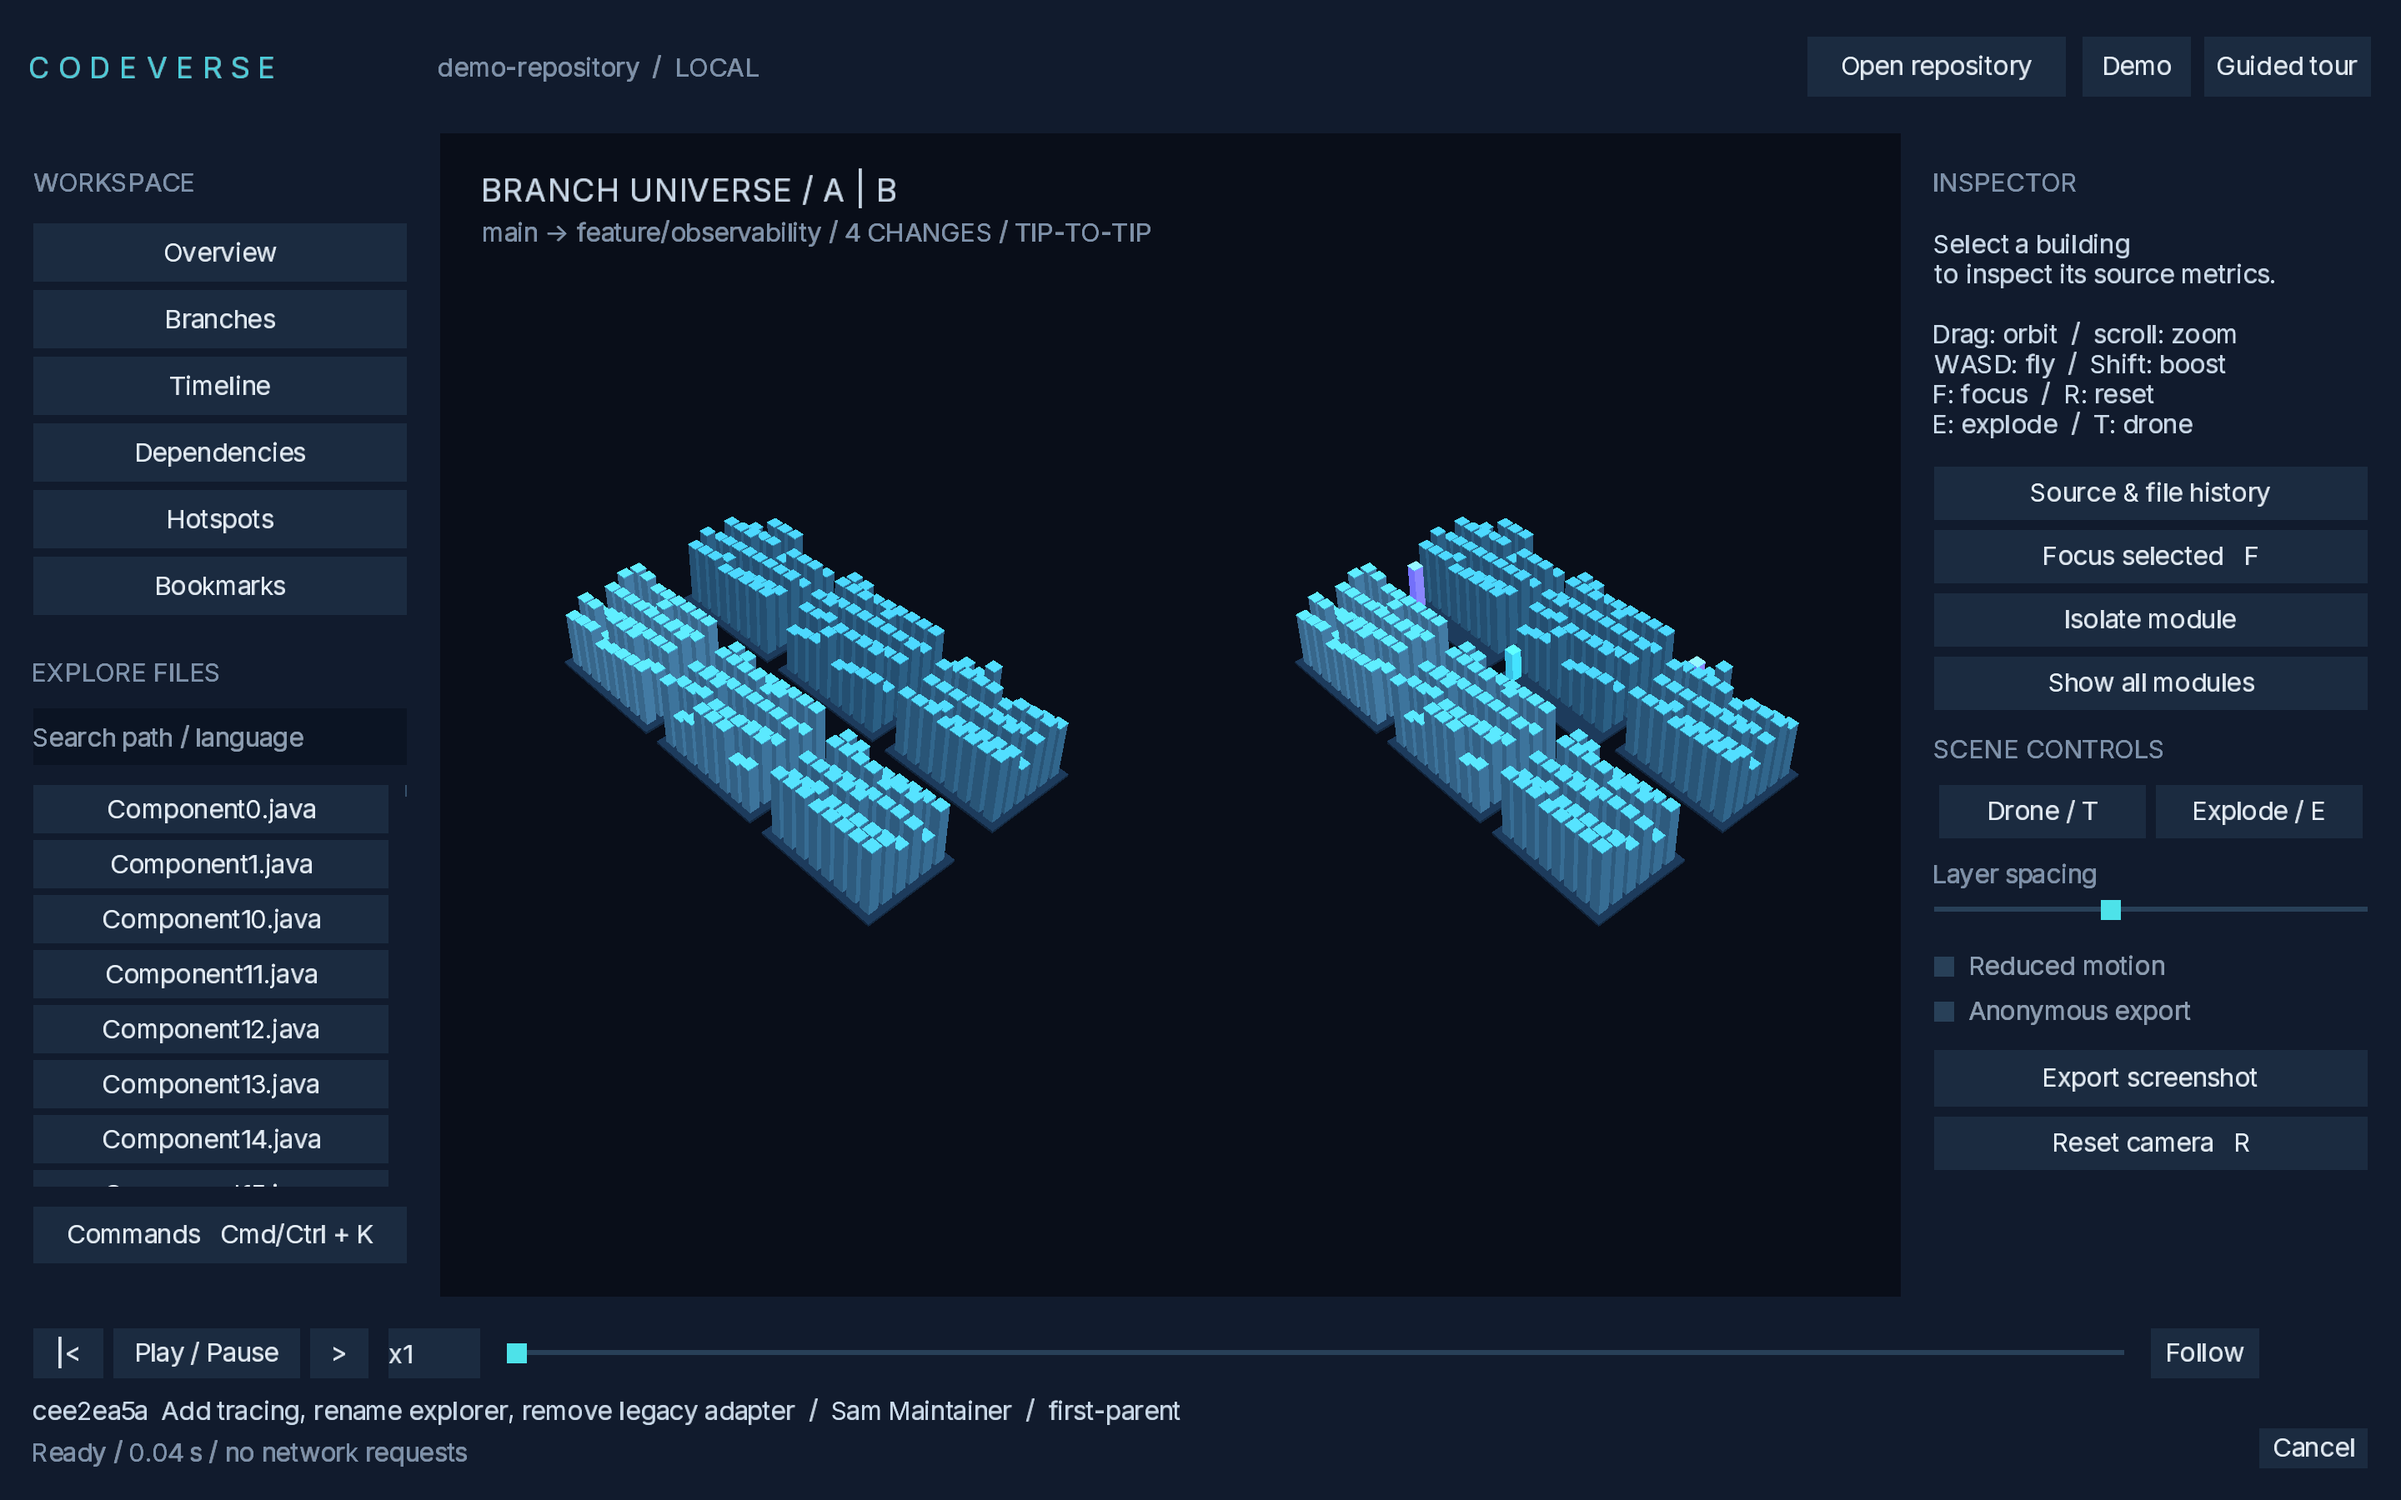
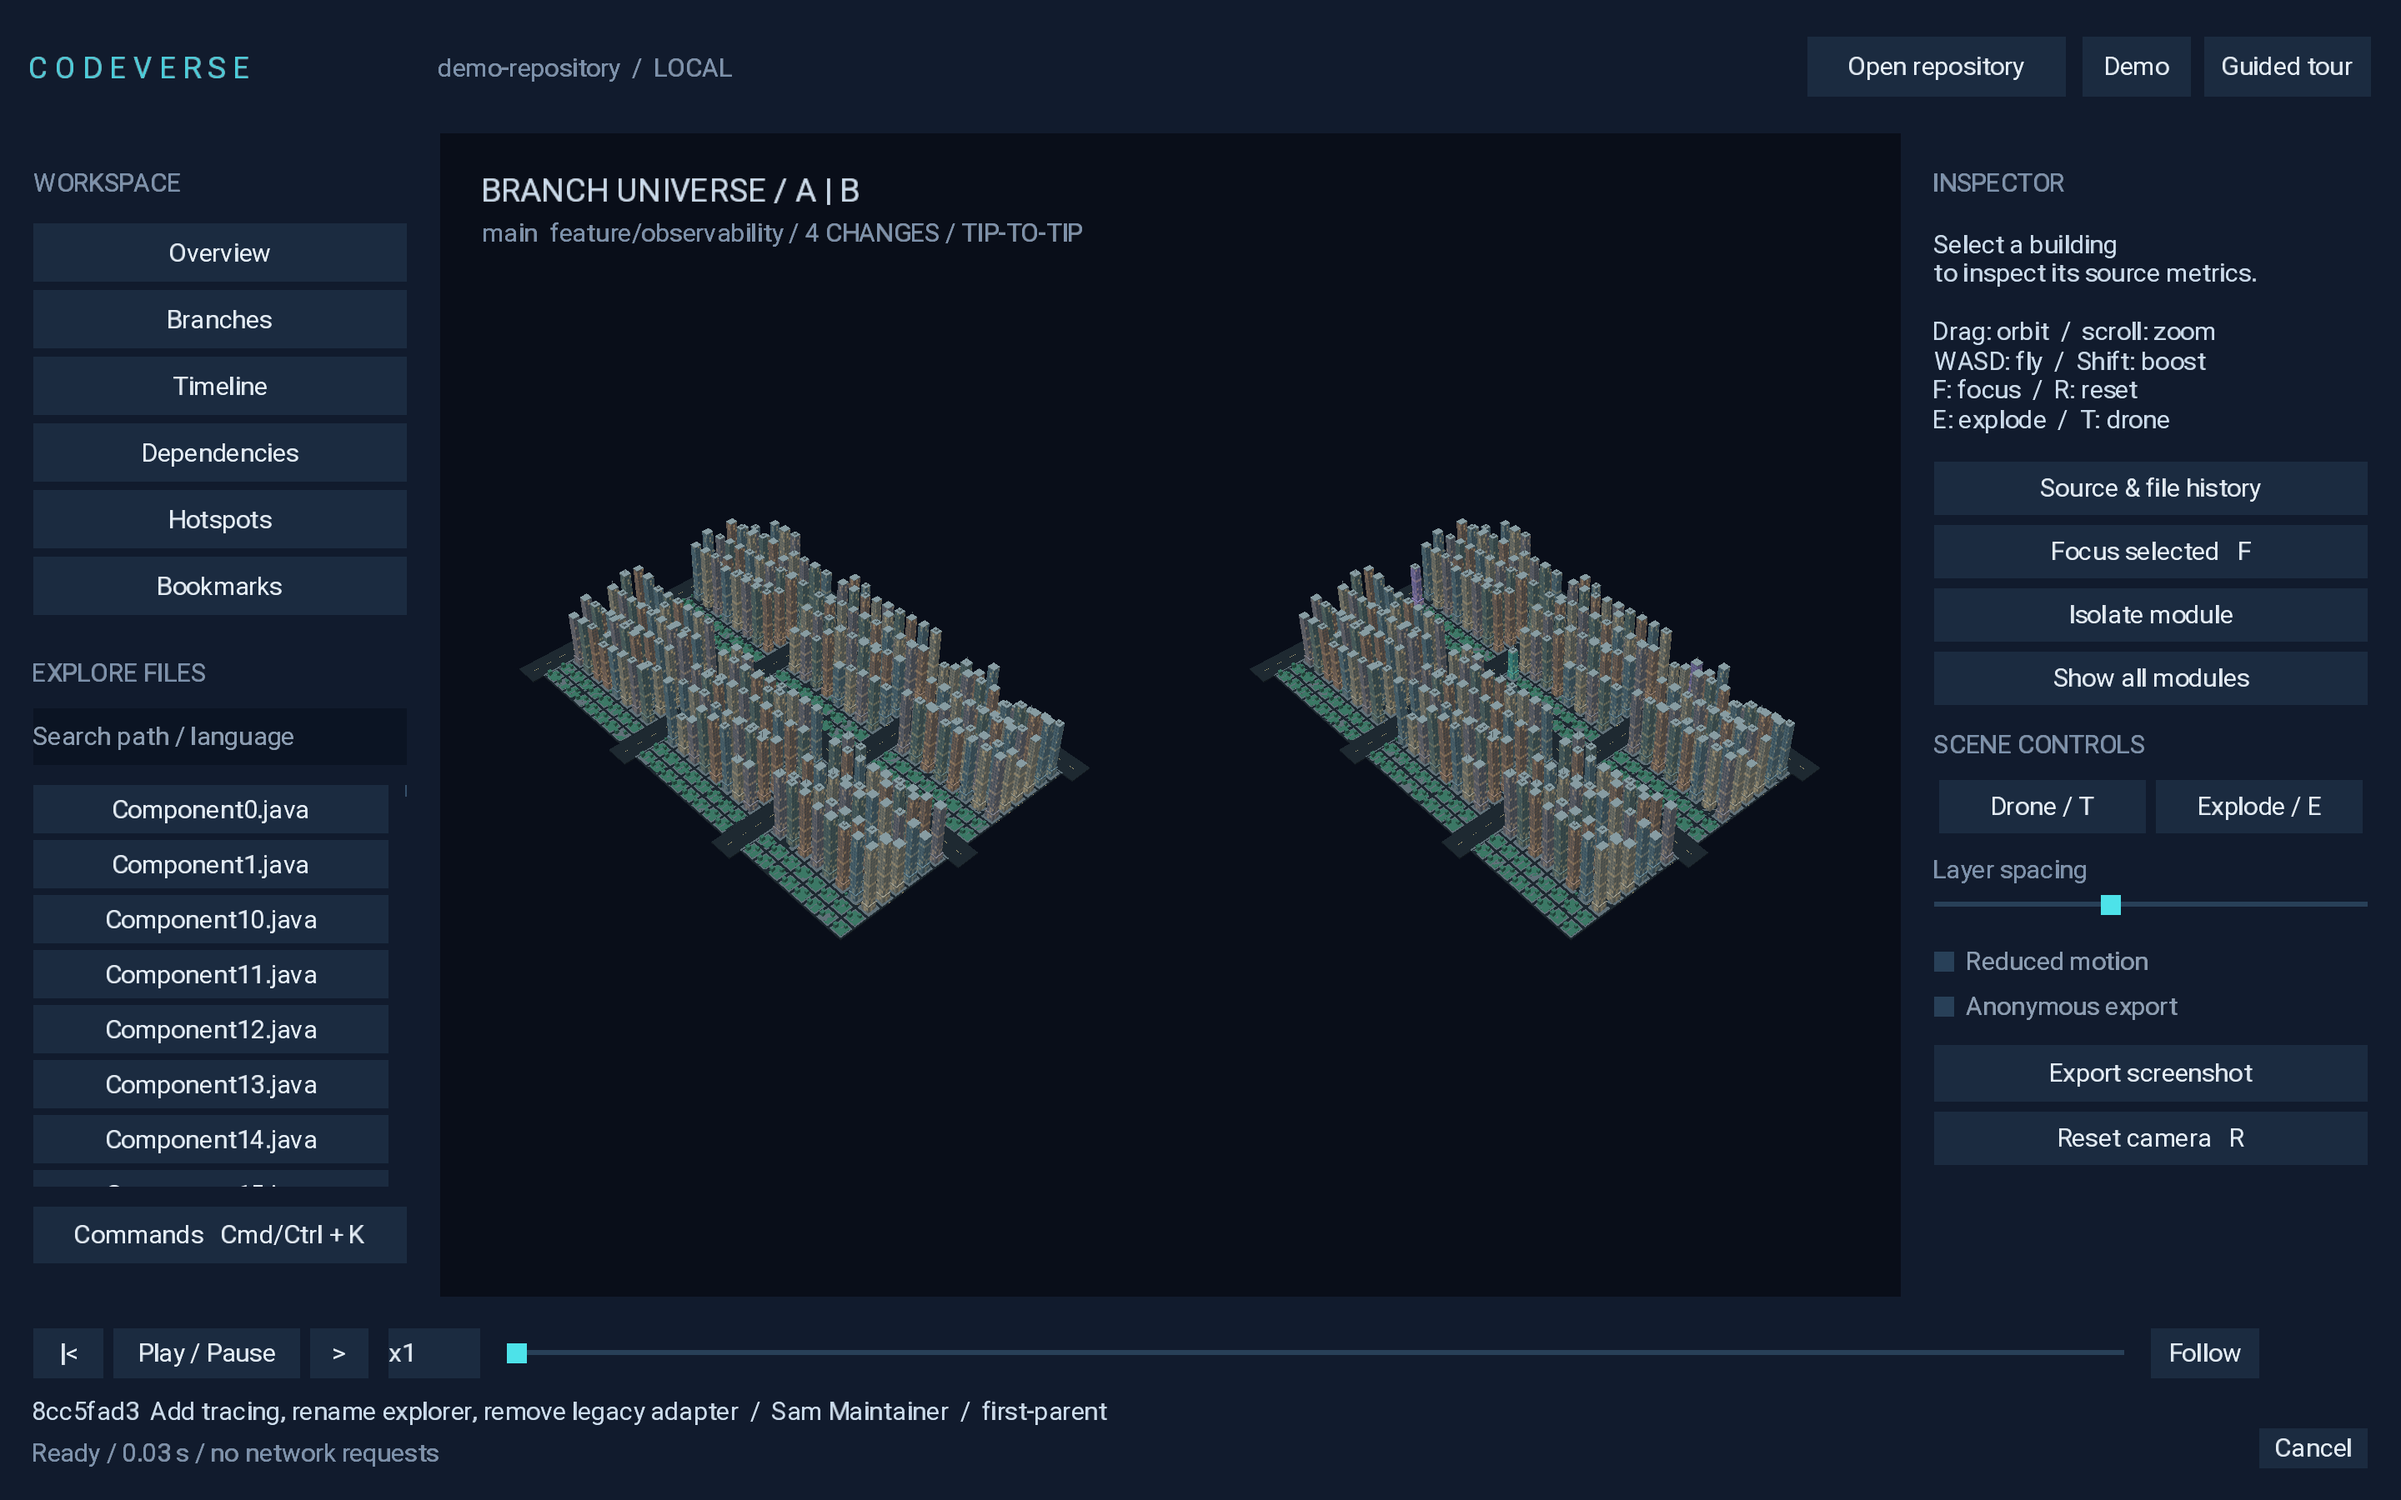
docs: refresh demo captures for the urban renderer

diff --git a/README.md b/README.md
@@ -52,7 +52,7 @@ Cache, settings and demo data live in the platform application-data folder (`~/L
 
 Six Gradle modules: `desktop-ui`, `renderer-3d`, `scene-model`, `git-indexer`, `code-analyzer`, `storage`. Java 25, libGDX 1.14.2, JGit 7.8.0, LWJGL 3.4.3 and SQLite. Versions and dependency lockfiles are committed. Import parsing is bounded and heuristic; repository work runs on a cancellable worker. Urban geometry uses static mesh batches; height changes and district separation run on the GPU. Camera position and look target use frame-rate-independent damping. Selection uses a shader uniform without rebuilding the city. The interface bundles Roboto.
 
-Tests cover merge-base vs tip-to-tip, rename/add/delete/modify, native `git diff` agreement, bare/empty/detached repositories, cancellation, Unicode, binary/large/LFS/symlink entries, deterministic layout, persistent layout, 100k aggregation, dependency cycles and cache isolation.
+Tests cover merge-base vs tip-to-tip, rename/add/delete/modify, native `git diff` agreement, bare/empty/detached repositories, cancellation, Unicode, binary/large/LFS/symlink entries, deterministic layout, persistent layout, 100k aggregation, dependency cycles, cache isolation and camera damping at 30/60/120/144 Hz.
 
 [Measured benchmarks](docs/benchmarks.json): on an Apple M1 Pro, the 10,000-building renderer recorded p95 4.29 ms for the steady scene and 3.69 ms during drone/explode animation after warmup without VSync. A 10,000-file fixture took 538 ms to read; 2,000 commits from a 10,000-commit history took 720 ms. The history fixture uses unchanged trees and is not a worst-case churn benchmark. No claim is made about Windows GPU performance or all repositories.
 
